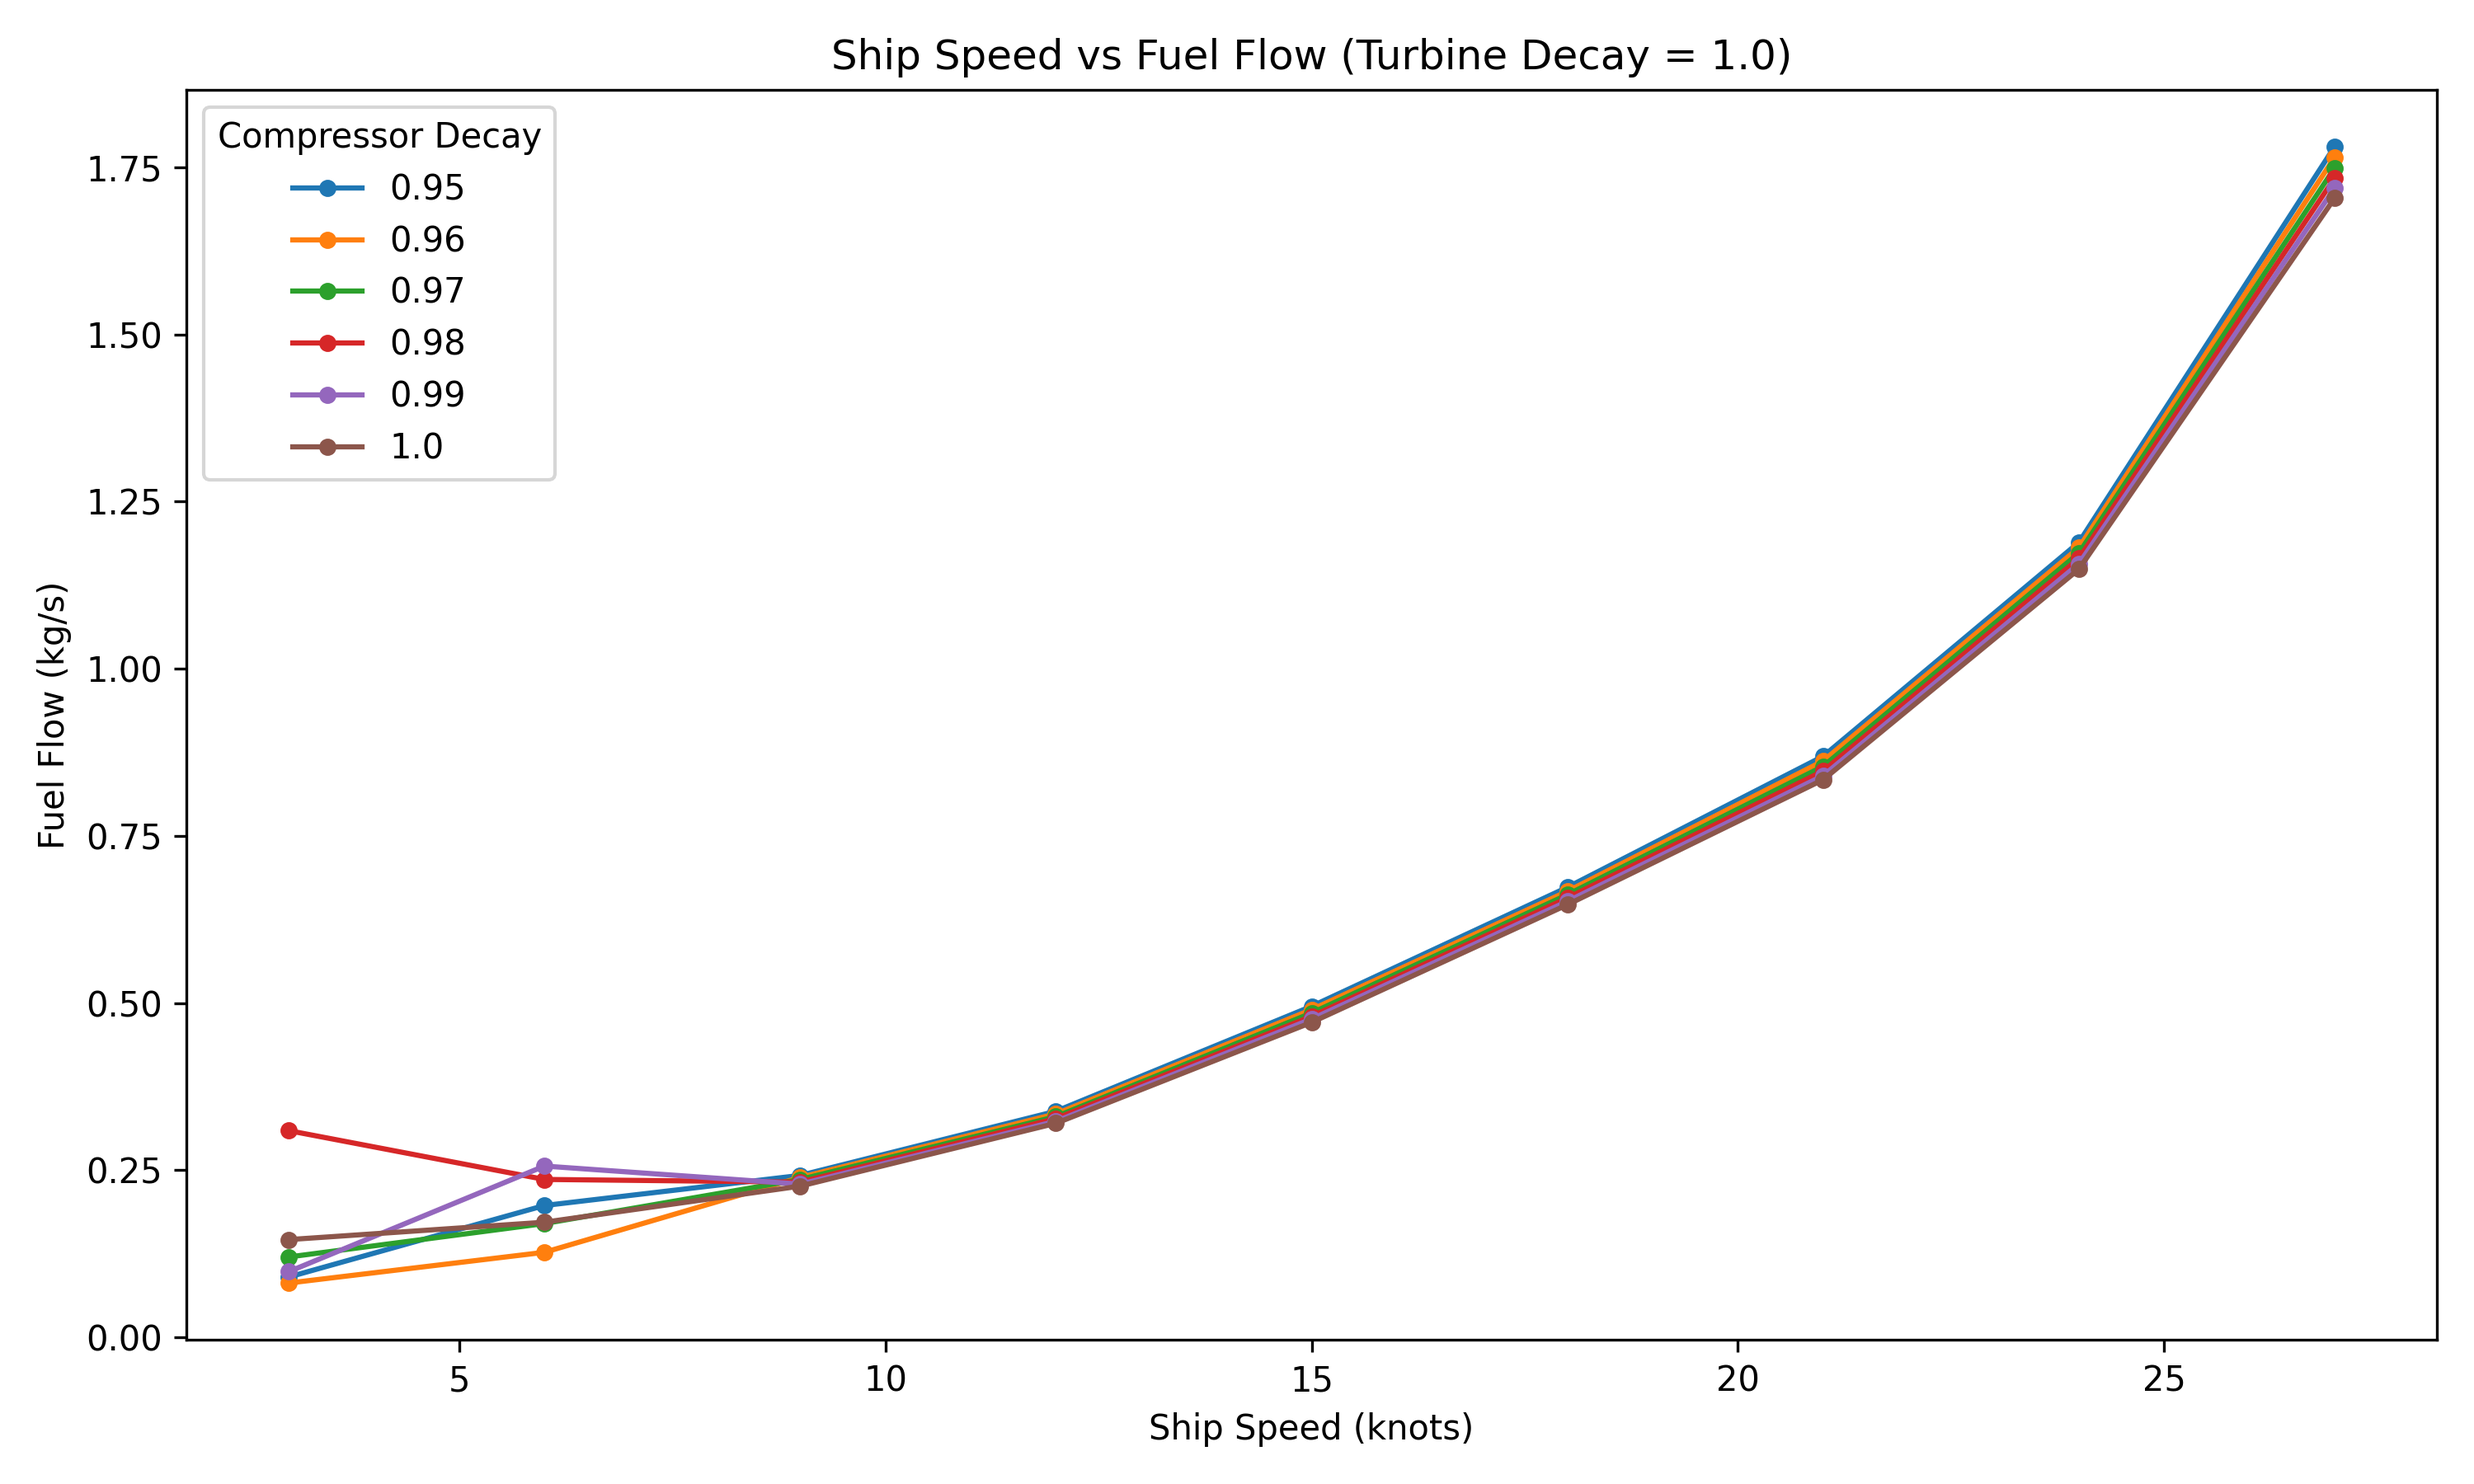
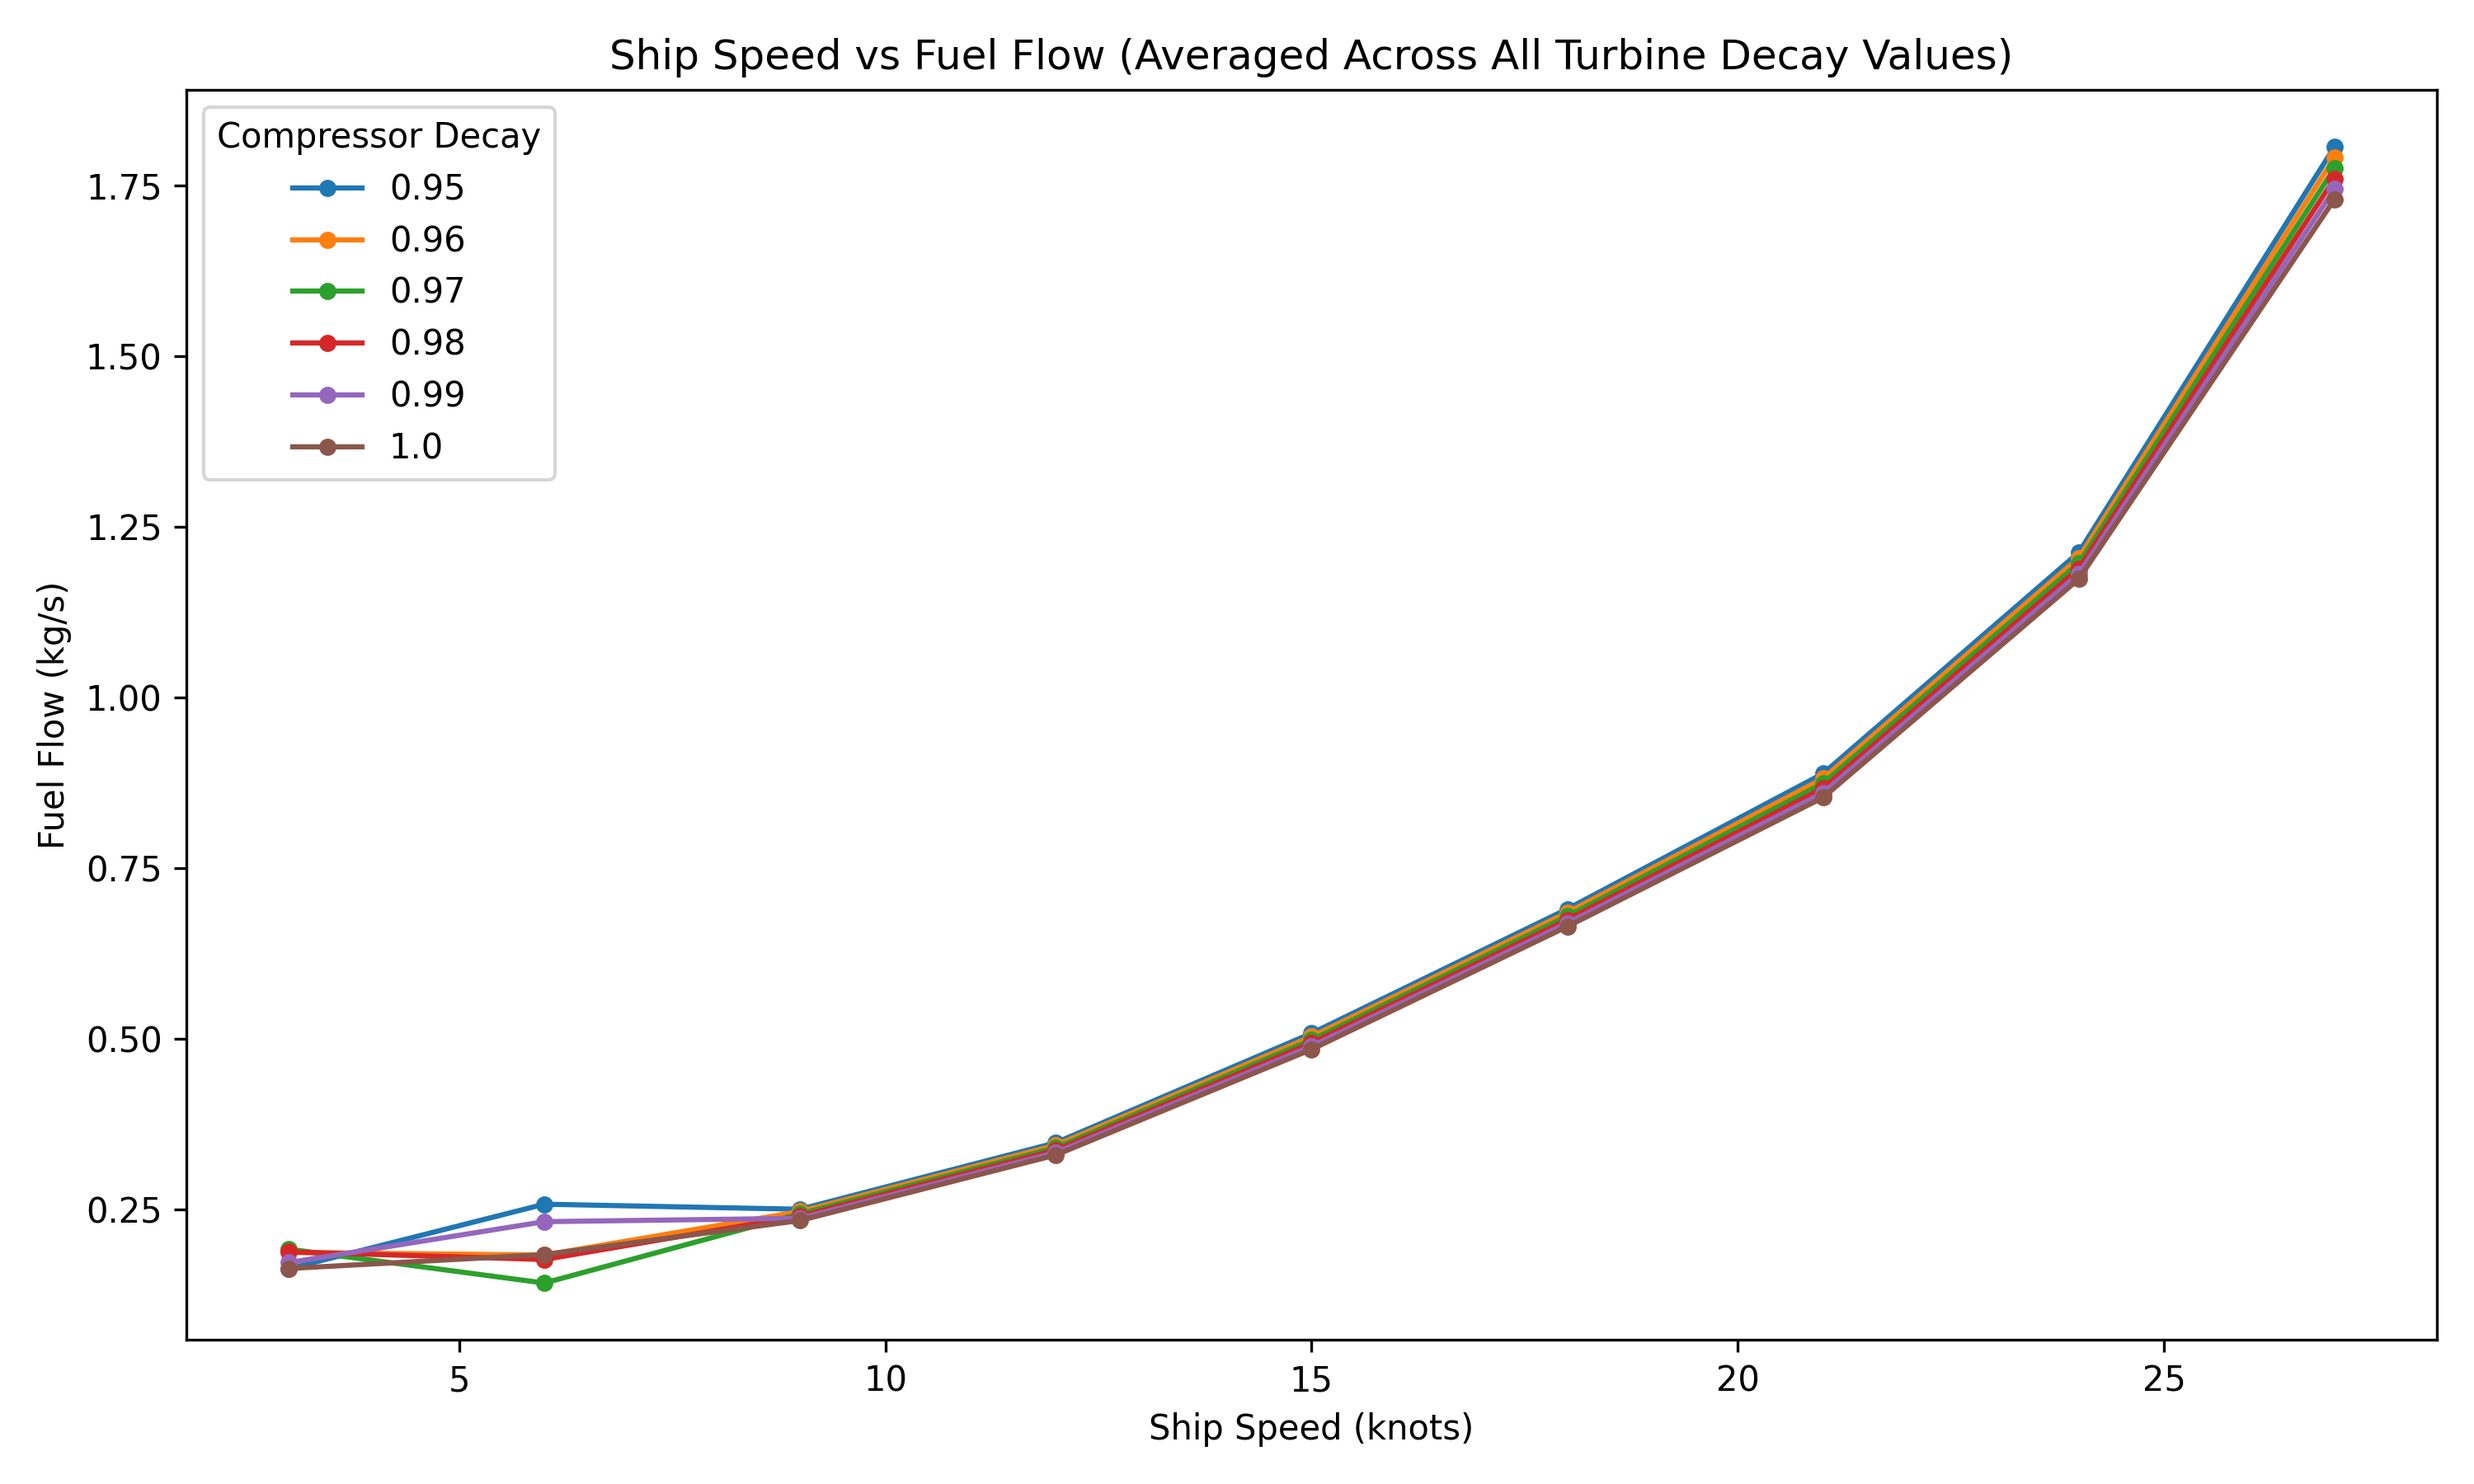
ggg

diff --git a/Presentation/generate_plots.py b/Presentation/generate_plots.py
@@ -6,6 +6,7 @@ Run this script to create all plots in the output folder.
 
 import pandas as pd
 import matplotlib.pyplot as plt
+from mpl_toolkits.mplot3d import Axes3D
 import seaborn as sns
 import os
 
@@ -49,21 +50,23 @@ def plot_speed_vs_fuel_decay(df):
     print("Created: speed_vs_fuel_decay.png")
 
 def plot_speed_vs_fuel_lines(df):
-    """Line plot of ship speed vs fuel flow - actual data points with lines."""
+    """Line plot of ship speed vs fuel flow - averaged across all turbine decay values."""
     plt.figure(figsize=(10, 6))
 
-    # Select specific compressor decay values AND fix turbine decay = 1.0
-    # This gives exactly 1 point per (speed, compressor_decay) - no averaging needed
+    # Select specific compressor decay values (include ALL turbine decay values)
     selected_decays = [0.95, 0.96, 0.97, 0.98, 0.99, 1.0]
-    df_selected = df[(df['Compressor_Decay'].isin(selected_decays)) & (df['Turbine_Decay'] == 1.0)]
+    df_selected = df[df['Compressor_Decay'].isin(selected_decays)]
 
-    # Plot lines connecting actual data points (no averaging)
+    # Average fuel flow across all turbine decay values for each (compressor_decay, speed)
+    df_avg = df_selected.groupby(['Compressor_Decay', 'Ship_Speed'])['Fuel_Flow'].mean().reset_index()
+
+    # Plot lines connecting averaged data points
     for decay in selected_decays:
-        subset = df_selected[df_selected['Compressor_Decay'] == decay].sort_values('Ship_Speed')
+        subset = df_avg[df_avg['Compressor_Decay'] == decay].sort_values('Ship_Speed')
         plt.plot(subset['Ship_Speed'], subset['Fuel_Flow'],
                  marker='o', markersize=4, linewidth=1.5, label=f'{decay}')
 
-    plt.title('Ship Speed vs Fuel Flow (Turbine Decay = 1.0)')
+    plt.title('Ship Speed vs Fuel Flow (Averaged Across All Turbine Decay Values)')
     plt.xlabel('Ship Speed (knots)')
     plt.ylabel('Fuel Flow (kg/s)')
     plt.legend(title='Compressor Decay')
@@ -87,22 +90,24 @@ def plot_speed_vs_fuel_decay_filtered(df):
     print("Created: speed_vs_fuel_decay_filtered.png")
 
 def plot_speed_vs_fuel_lines_filtered(df):
-    """Line plot of ship speed vs fuel flow - filtered to speed >= 9 knots."""
+    """Line plot of ship speed vs fuel flow - filtered to speed >= 9 knots, averaged across turbine decay."""
     plt.figure(figsize=(10, 6))
 
-    # Select specific compressor decay values, fix turbine decay = 1.0, speed >= 9
+    # Select specific compressor decay values, speed >= 9 (include ALL turbine decay values)
     selected_decays = [0.95, 0.96, 0.97, 0.98, 0.99, 1.0]
     df_selected = df[(df['Compressor_Decay'].isin(selected_decays)) &
-                     (df['Turbine_Decay'] == 1.0) &
                      (df['Ship_Speed'] >= 9)]
 
-    # Plot lines connecting actual data points (no averaging)
+    # Average fuel flow across all turbine decay values for each (compressor_decay, speed)
+    df_avg = df_selected.groupby(['Compressor_Decay', 'Ship_Speed'])['Fuel_Flow'].mean().reset_index()
+
+    # Plot lines connecting averaged data points
     for decay in selected_decays:
-        subset = df_selected[df_selected['Compressor_Decay'] == decay].sort_values('Ship_Speed')
+        subset = df_avg[df_avg['Compressor_Decay'] == decay].sort_values('Ship_Speed')
         plt.plot(subset['Ship_Speed'], subset['Fuel_Flow'],
                  marker='o', markersize=4, linewidth=1.5, label=f'{decay}')
 
-    plt.title('Ship Speed vs Fuel Flow (Turbine Decay = 1.0, Speed >= 9 knots)')
+    plt.title('Ship Speed vs Fuel Flow (Averaged Across Turbine Decay, Speed >= 9 knots)')
     plt.xlabel('Ship Speed (knots)')
     plt.ylabel('Fuel Flow (kg/s)')
     plt.legend(title='Compressor Decay')
@@ -224,6 +229,62 @@ def plot_operating_lines(df):
     print("Created: operating_lines.png")
 
 
+def plot_3d_speed_fuel_decay(df):
+    """3D surface plot of compressor decay, turbine decay, and fuel flow colored by exhaust temp."""
+    import numpy as np
+    from matplotlib import cm
+    from matplotlib.colors import Normalize
+
+    fig = plt.figure(figsize=(12, 9))
+    ax = fig.add_subplot(111, projection='3d')
+
+    # Fix ship speed to 15 knots for a clean surface
+    df_speed = df[df['Ship_Speed'] == 15]
+
+    # Create pivot tables for fuel flow and temperature
+    fuel_pivot = df_speed.pivot_table(
+        values='Fuel_Flow',
+        index='Compressor_Decay',
+        columns='Turbine_Decay',
+        aggfunc='mean'
+    )
+    temp_pivot = df_speed.pivot_table(
+        values='T48',
+        index='Compressor_Decay',
+        columns='Turbine_Decay',
+        aggfunc='mean'
+    )
+
+    # Create meshgrid
+    X = fuel_pivot.columns.values  # Turbine Decay
+    Y = fuel_pivot.index.values    # Compressor Decay
+    X, Y = np.meshgrid(X, Y)
+    Z = fuel_pivot.values          # Fuel Flow
+
+    # Normalize temperature for color mapping
+    norm = Normalize(vmin=temp_pivot.values.min(), vmax=temp_pivot.values.max())
+    colors = cm.hot(norm(temp_pivot.values))
+
+    # Plot surface
+    surf = ax.plot_surface(X, Y, Z, facecolors=colors, alpha=0.9, shade=True)
+
+    ax.set_xlabel('Turbine Decay')
+    ax.set_ylabel('Compressor Decay')
+    ax.set_zlabel('Fuel Flow (kg/s)')
+    ax.set_title('3D Surface: Decay States vs Fuel Flow at 15 knots\n(Color = Exhaust Temperature T48)')
+
+    # Add colorbar
+    mappable = cm.ScalarMappable(norm=norm, cmap='hot')
+    mappable.set_array(temp_pivot.values)
+    cbar = fig.colorbar(mappable, ax=ax, shrink=0.6, pad=0.1)
+    cbar.set_label('Exhaust Temperature T48 (°C)')
+
+    plt.tight_layout()
+    plt.savefig(os.path.join(OUTPUT_FOLDER, "3d_speed_fuel_decay.png"), dpi=300)
+    plt.close()
+    print("Created: 3d_speed_fuel_decay.png")
+
+
 def main():
     """Generate all plots."""
     print("=" * 50)
@@ -248,6 +309,7 @@ def main():
     plot_decay_vs_t48(df)
     plot_decay_distributions(df)
     plot_operating_lines(df)
+    plot_3d_speed_fuel_decay(df)
 
     print("-" * 30)
     print(f"\nAll plots saved to '{OUTPUT_FOLDER}/' folder")
